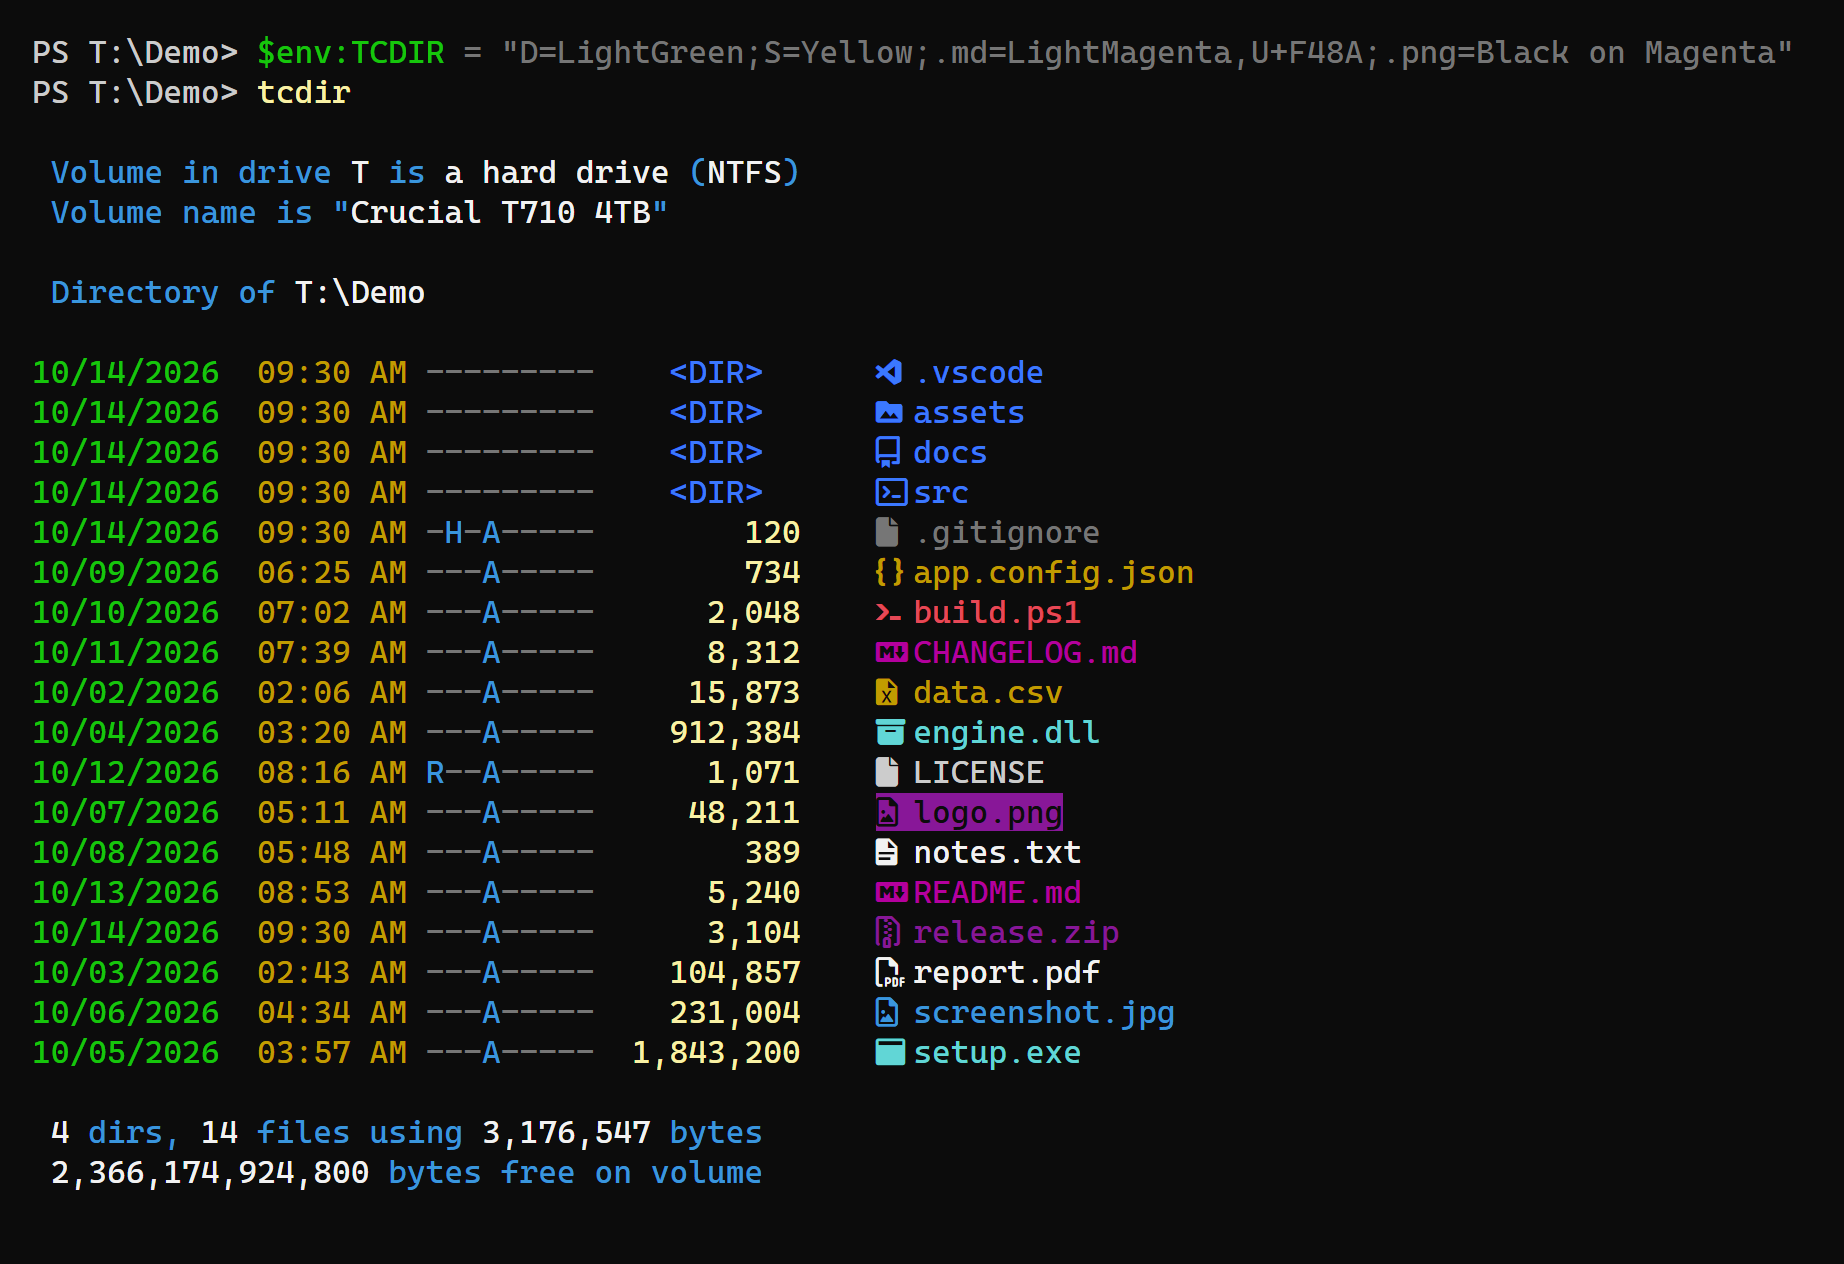
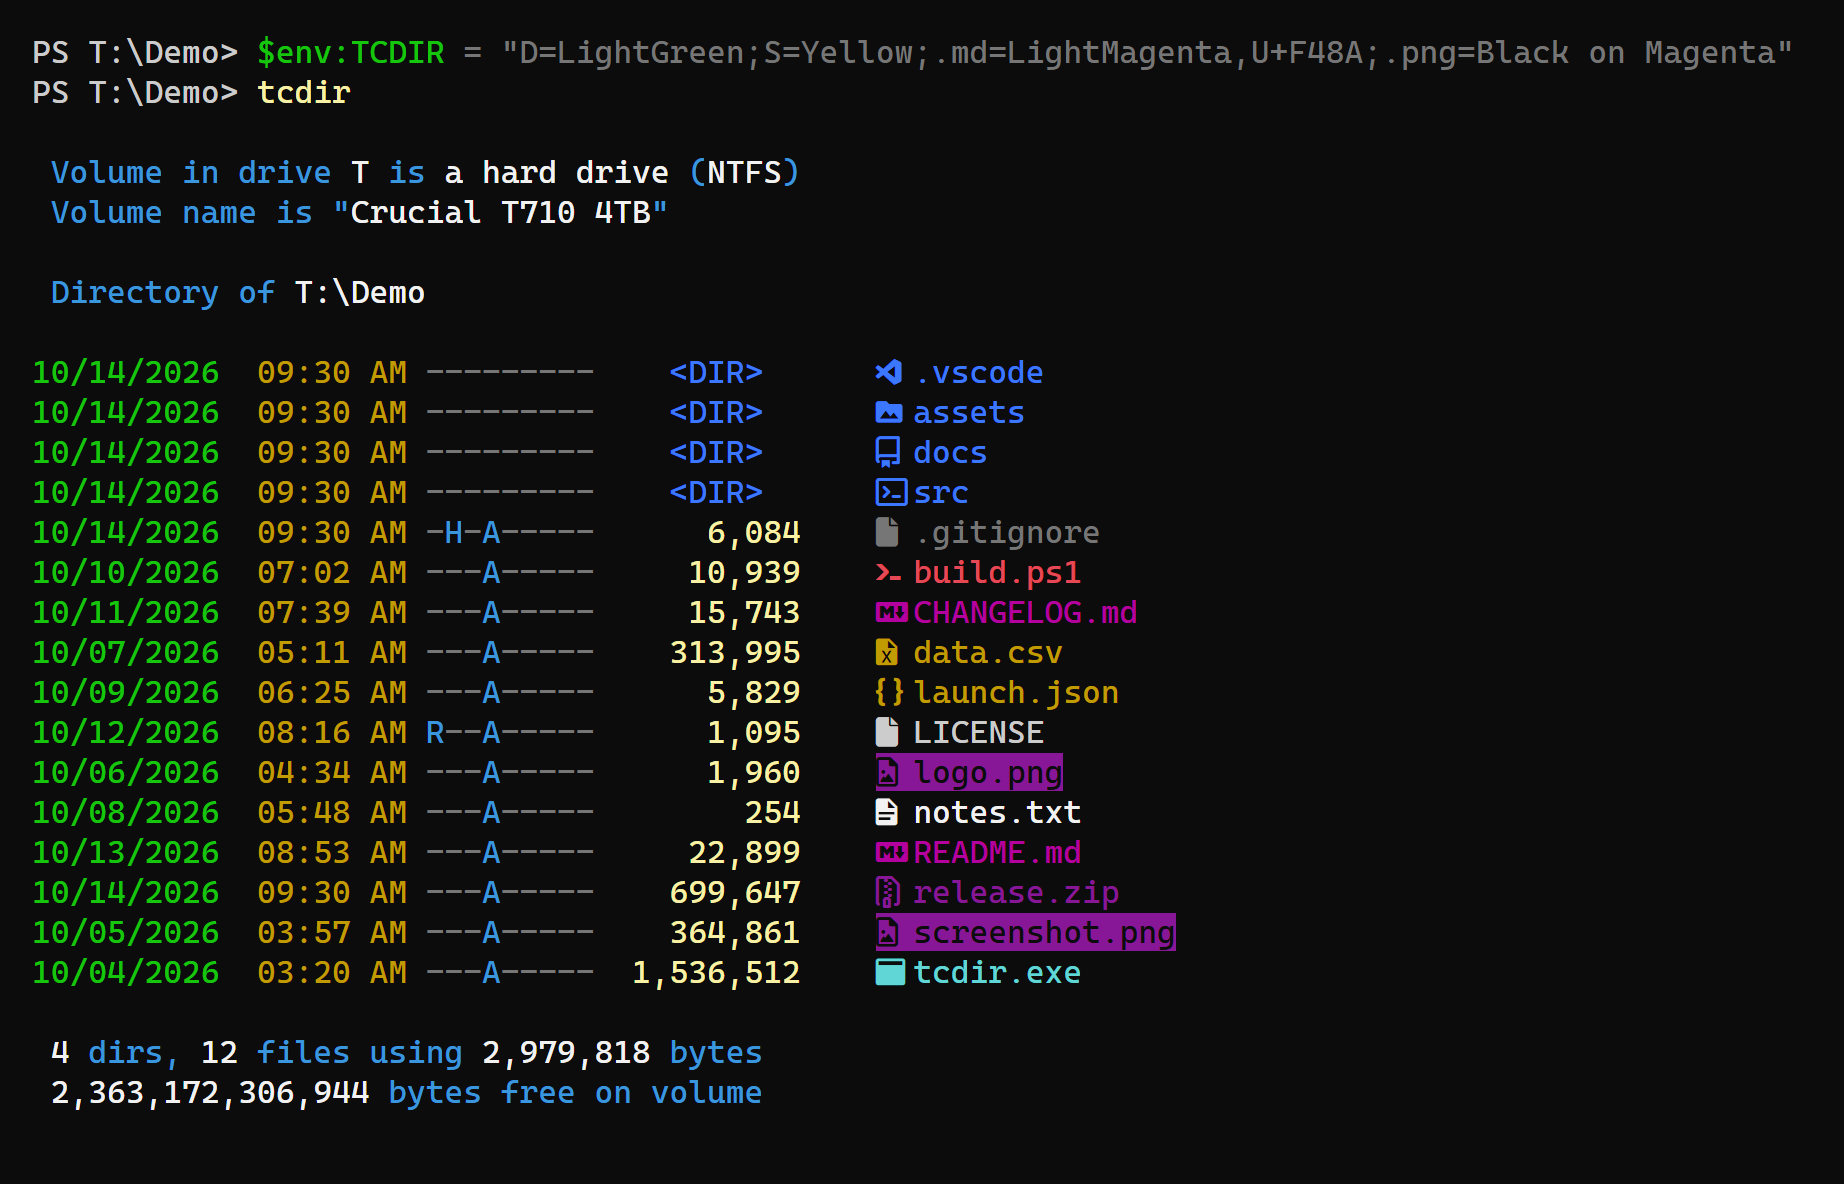
docs(readme): Build the screenshot demo from real files
The demo folders contain copies of repository files and a built tcdir.exe,
and release.zip contains a nested source.zip. The recursive wide screenshot
is removed.

diff --git a/README.md b/README.md
@@ -294,9 +294,6 @@ Examples:
 - Wide listing: `TCDir.exe -w`
 ![TCDir wide listing](Assets/TCDir%20Wide.png)
 
-- Wide listing of subdirectories: `TCDir.exe -s -w`
-![TCDir recursive wide listing](Assets/TCDir%20Subdirectories%20Wide.png)
-
 ## Configuration file (`.tcdirconfig`)
 
 TCDir reads an optional config file at startup for persistent settings that don't require an environment variable.
